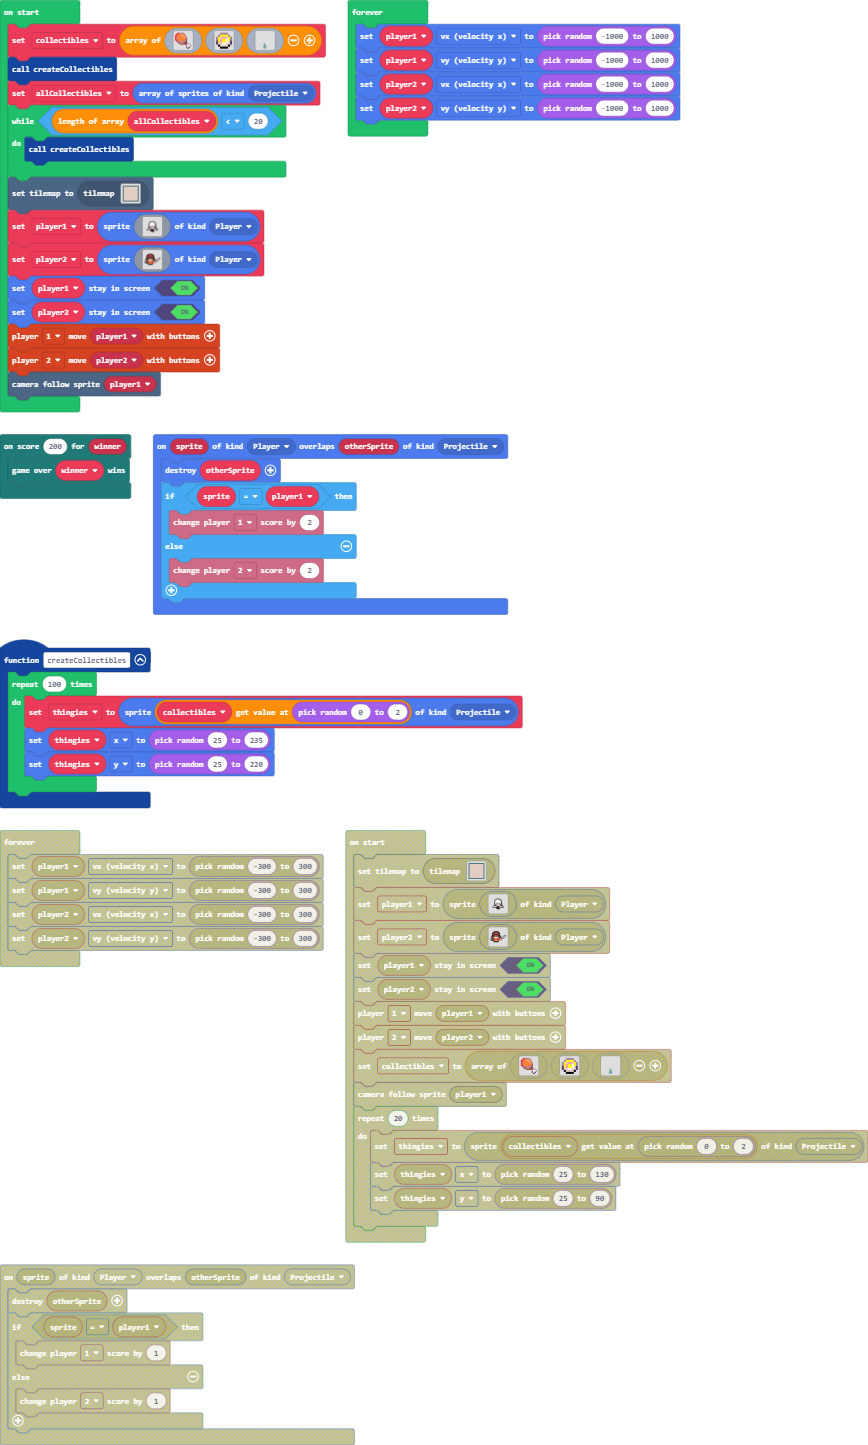
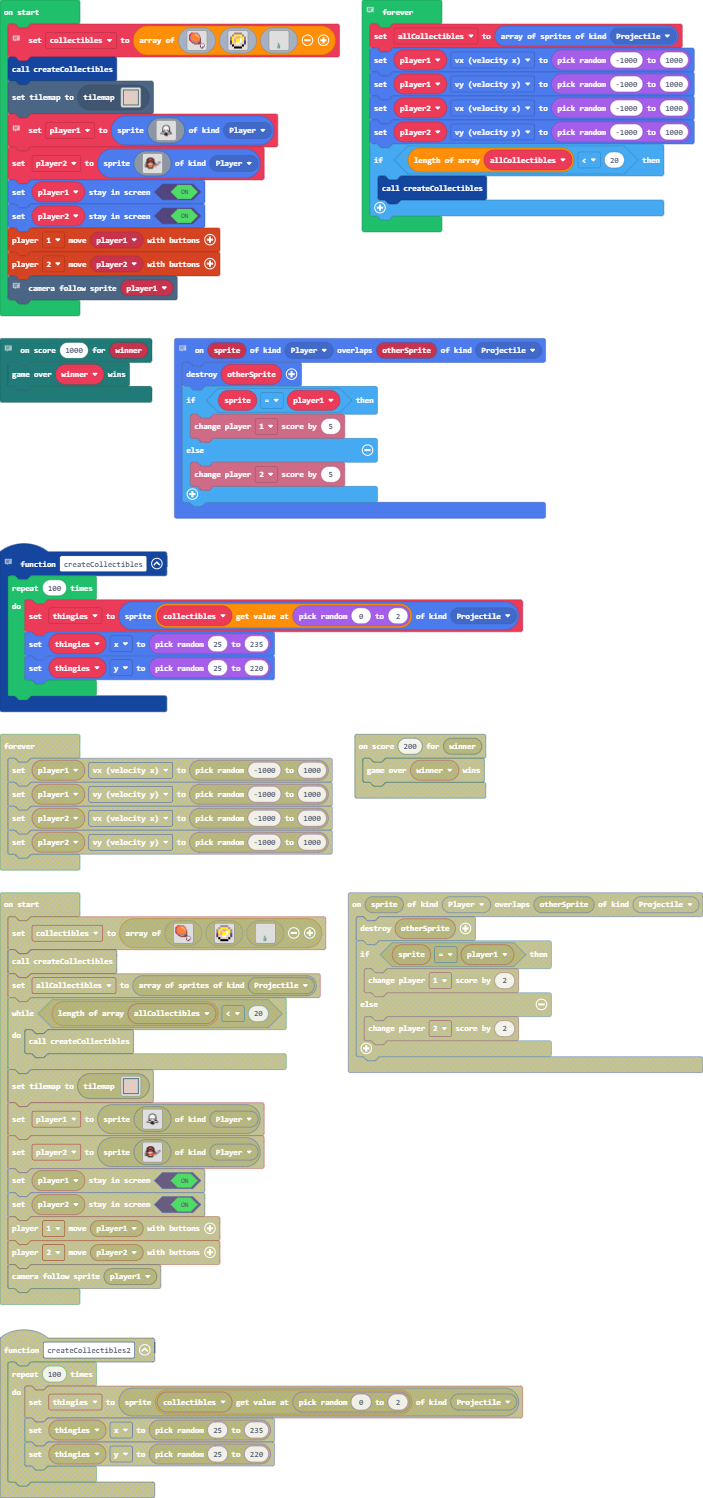
Update main.blocks, main.ts

diff --git a/main.ts b/main.ts
@@ -1,4 +1,4 @@
-//This function creates all of the things that increase the players' score.
+// This function creates all of the things that increase the players' score.
 function createCollectibles () {
     for (let index = 0; index < 100; index++) {
         thingies = sprites.create(collectibles[randint(0, 2)], SpriteKind.Projectile)
@@ -6,7 +6,11 @@ function createCollectibles () {
         thingies.y = randint(25, 220)
     }
 }
-//This gives the players points for picking up the collectibles.
+// When a player reaches 1000 points, they win.
+mp.onScore(1000, function (winner) {
+    mp.gameOverPlayerWin(winner)
+})
+// This gives the players points for picking up the collectibles.
 sprites.onOverlap(SpriteKind.Player, SpriteKind.Projectile, function (sprite, otherSprite) {
     sprites.destroy(otherSprite)
     if (sprite == player1) {
@@ -15,13 +19,11 @@ sprites.onOverlap(SpriteKind.Player, SpriteKind.Projectile, function (sprite, ot
         info.player2.changeScoreBy(5)
     }
 })
-//When a player reaches 1000 points, they win.
-mp.onScore(1000, function (winner) {
-    mp.gameOverPlayerWin(winner)
-})
+let allCollectibles: Sprite[] = []
 let thingies: Sprite = null
+let player1: Sprite = null
 let collectibles: Image[] = []
-//These are the 3 collectibles.
+// These are the 3 collectibles.
 collectibles = [img`
     . . 2 2 b b b b b . . . . . . . 
     . 2 b 4 4 4 4 4 4 b . . . . . . 
@@ -100,8 +102,8 @@ collectibles = [img`
     `]
 createCollectibles()
 tiles.setCurrentTilemap(tilemap`level1`)
-//These create the players.
-let player1 = sprites.create(img`
+// These create the players.
+player1 = sprites.create(img`
     ........................
     ........................
     ........................
@@ -157,11 +159,11 @@ player1.setStayInScreen(true)
 player2.setStayInScreen(true)
 controller.player1.moveSprite(player1)
 controller.player2.moveSprite(player2)
-//The camera only follows player 1 because I don't know how to do anything else.
+// The camera only follows player 1 because I don't know how to do anything else.
 scene.cameraFollowSprite(player1)
-//This runs forever; it moves the players randomly(ish) and creates more collectibles once they start to run out.
+// This runs forever; it moves the players randomly(ish) and creates more collectibles once they start to run out.
 forever(function () {
-    let allCollectibles = sprites.allOfKind(SpriteKind.Projectile)
+    allCollectibles = sprites.allOfKind(SpriteKind.Projectile)
     player1.vx = randint(-1000, 1000)
     player1.vy = randint(-1000, 1000)
     player2.vx = randint(-1000, 1000)
